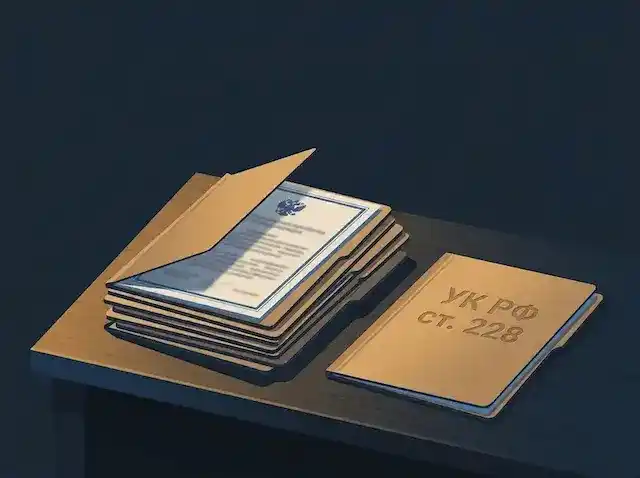
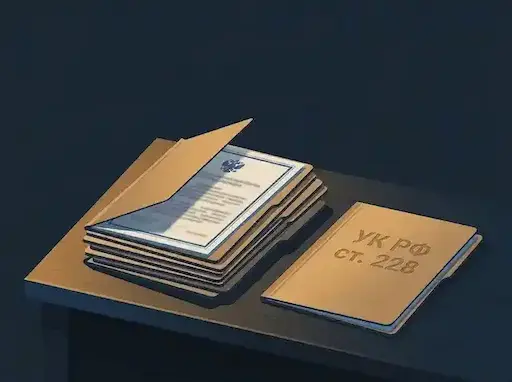
add new page

diff --git a/lawyer-page/src/app/tseny/page.tsx b/lawyer-page/src/app/tseny/page.tsx
@@ -41,8 +41,8 @@ const offerCatalog = {
       priceSpecification: { "@type": "PriceSpecification", price: "200000", priceCurrency: "RUB", minPrice: "200000" } },
     { "@type": "Offer", name: "Защита в суде первой инстанции", price: "200000", priceCurrency: "RUB",
       priceSpecification: { "@type": "PriceSpecification", price: "200000", priceCurrency: "RUB", minPrice: "200000" } },
-    { "@type": "Offer", name: "Апелляционное обжалование приговора", price: "75000", priceCurrency: "RUB",
-      priceSpecification: { "@type": "PriceSpecification", price: "75000", priceCurrency: "RUB", minPrice: "75000" } },
+    { "@type": "Offer", name: "Апелляционное обжалование приговора", price: "150000", priceCurrency: "RUB",
+      priceSpecification: { "@type": "PriceSpecification", price: "150000", priceCurrency: "RUB", minPrice: "150000" } },
     { "@type": "Offer", name: "Кассационное обжалование приговора", price: "75000", priceCurrency: "RUB",
       priceSpecification: { "@type": "PriceSpecification", price: "75000", priceCurrency: "RUB", minPrice: "75000" } },
     { "@type": "Offer", name: "Защита потерпевшего", price: "50000", priceCurrency: "RUB",
@@ -189,7 +189,7 @@ export default function PricingPage() {
         </div>
         <div className={styles.pricingItem}>
           <h3 className={styles.serviceTitle}>Апелляционное обжалование приговора</h3>
-          <p className={styles.price}>от 75 000 ₽</p>
+          <p className={styles.price}>от 150 000 ₽</p>
         </div>
         <div className={styles.pricingItem}>
           <h3 className={styles.serviceTitle}>Кассационное обжалование приговора</h3>
